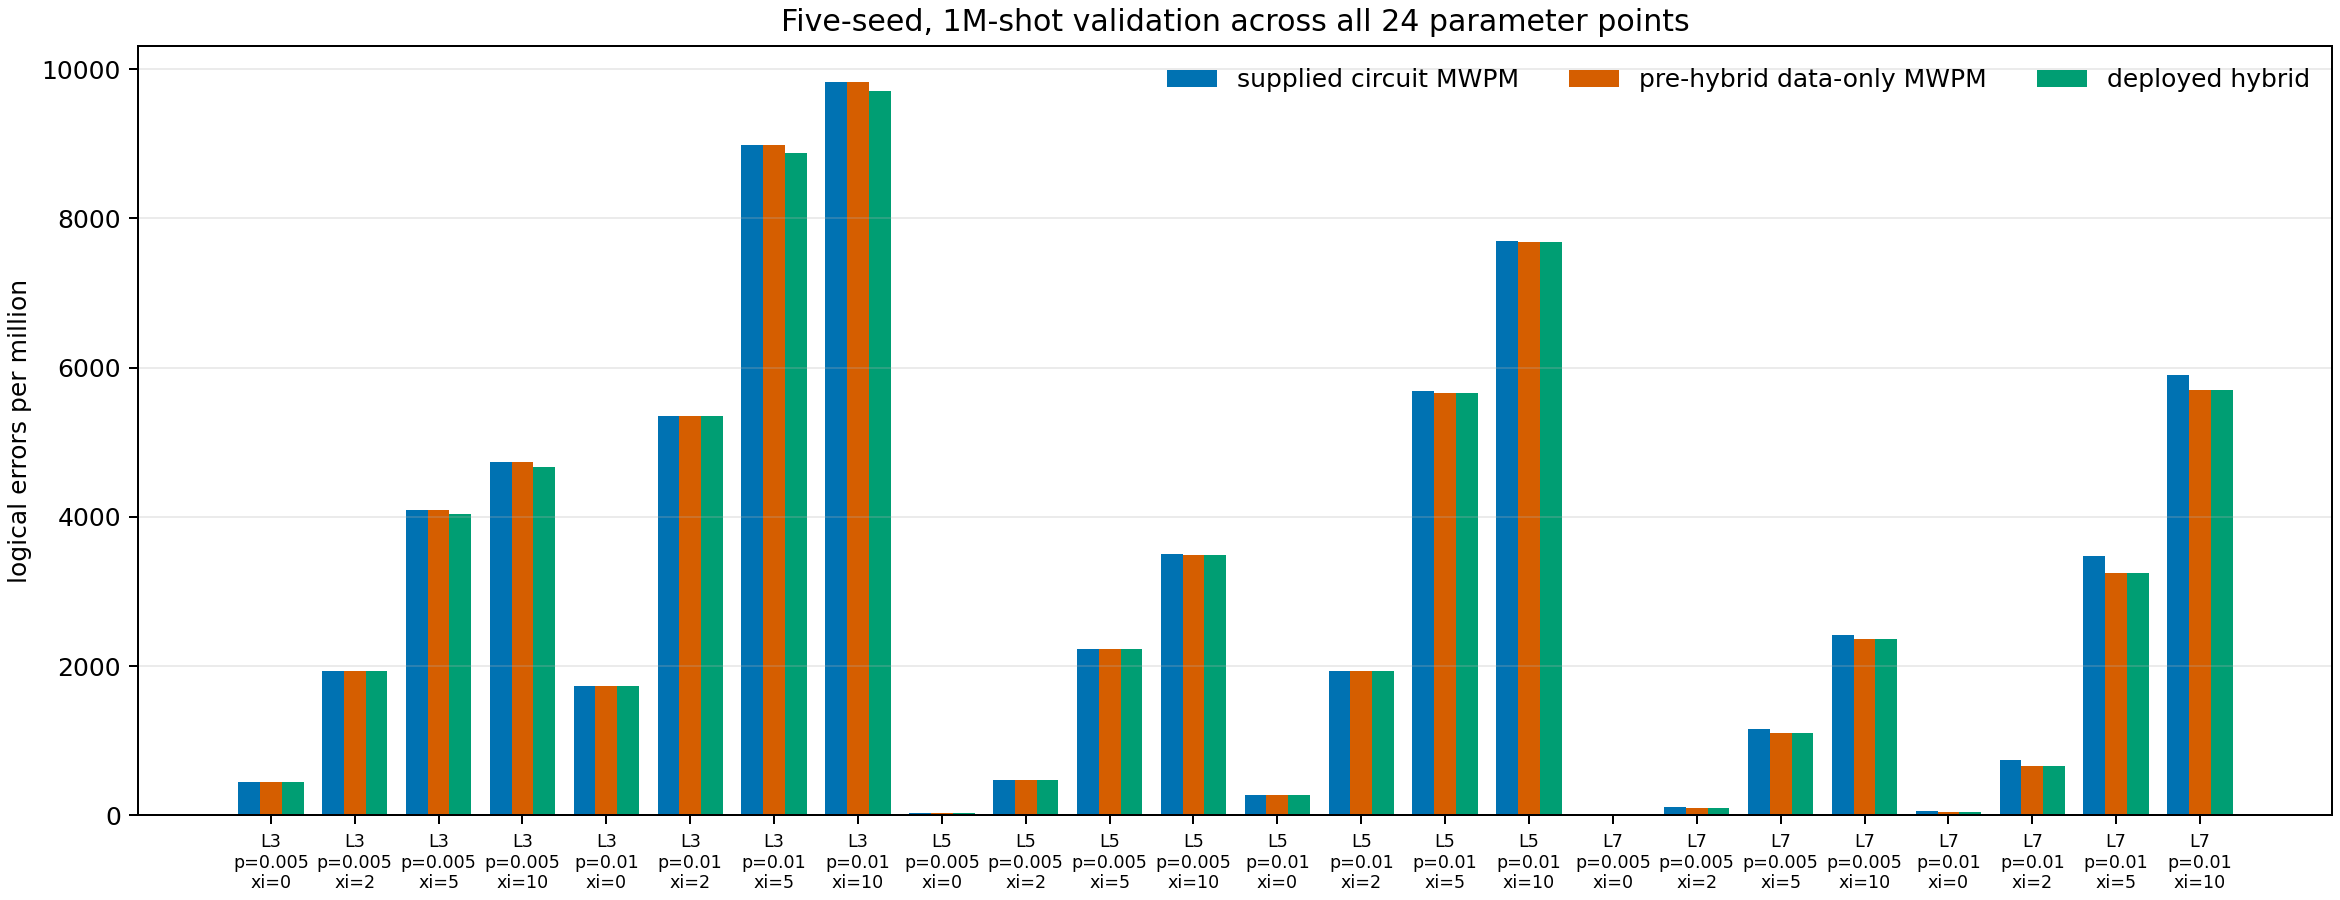
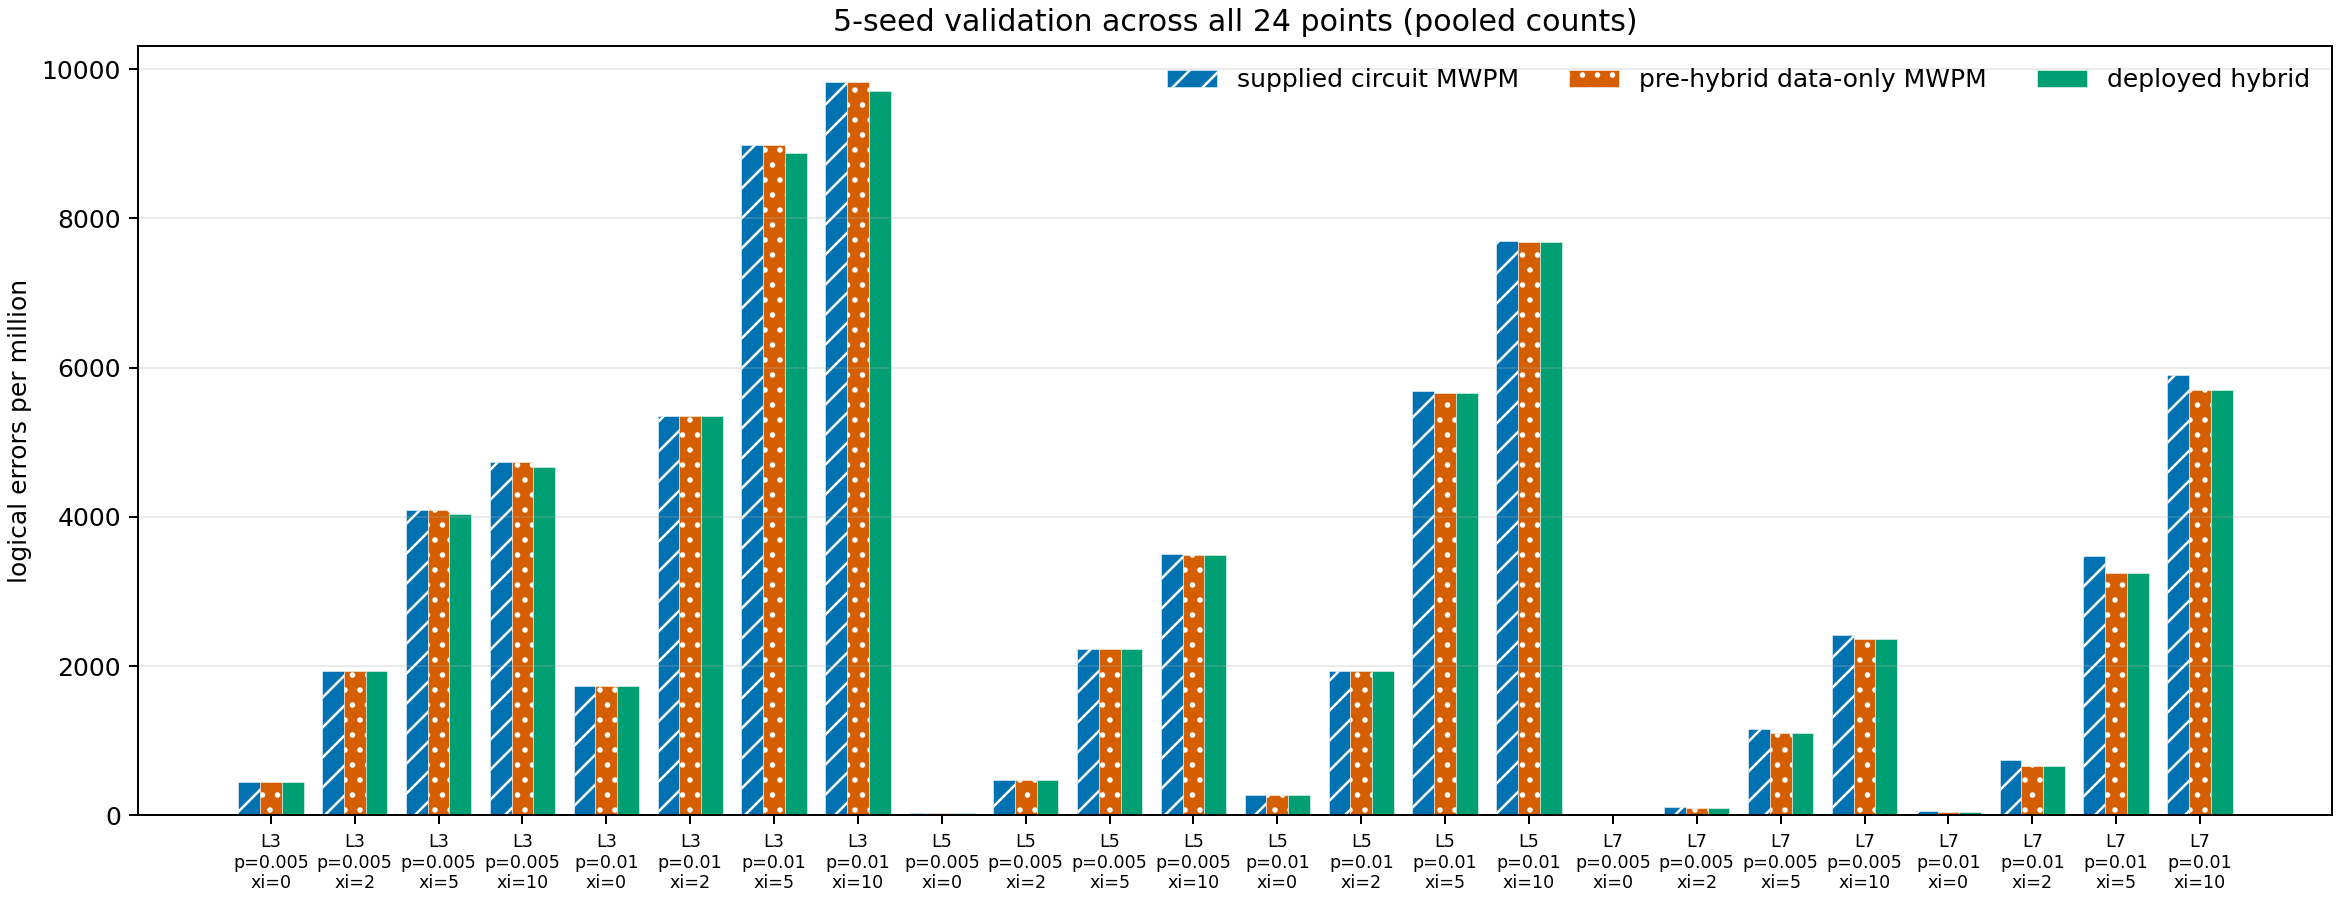
docs: add hybrid diagnostics and provenance

diff --git a/scripts/make_hybrid_plots.py b/scripts/make_hybrid_plots.py
@@ -3,6 +3,8 @@
 from __future__ import annotations
 
 import argparse
+import csv
+import hashlib
 import json
 from collections import defaultdict
 from pathlib import Path
@@ -18,10 +20,47 @@ LABELS = {
     "hybrid": "deployed hybrid",
 }
 COLORS = {"circuit_mwpm": "#0072B2", "pre_hybrid_data_only": "#D55E00", "hybrid": "#009E73"}
+HATCHES = dict(zip(VARIANTS, ("//", "..", "")))
+MARKERS = dict(zip(VARIANTS, ("s", "^", "o")))
 
 
 def load(path: Path) -> list[dict]:
-    return [json.loads(line) for line in path.read_text(encoding="utf-8").splitlines() if line.strip()]
+    rows = [json.loads(line) for line in path.read_text(encoding="utf-8").splitlines() if line.strip()]
+    seen = set()
+    for row in rows:
+        key = tuple(row[k] for k in ("seed", "L", "p", "xi"))
+        if key in seen or row["shots"] <= 0:
+            raise ValueError("duplicate stratum or nonpositive shots")
+        seen.add(key)
+        for variant in VARIANTS:
+            if row["decoders"][variant]["status"] != "ok":
+                raise ValueError("Figures require a passing receipt; failed runs must be reported separately")
+    expected = {(L, p, xi) for L in (3, 5, 7) for p in (0.005, 0.01) for xi in (0, 2, 5, 10)}
+    if not rows:
+        raise ValueError("empty receipt")
+    for seed in {r["seed"] for r in rows}:
+        if {k[1:] for k in seen if k[0] == seed} != expected:
+            raise ValueError("incomplete challenge grid")
+    return rows
+
+
+def paired_effect(rows: list[dict], reference: str) -> tuple[float, float]:
+    """Saved errors/M and approximate 95% CI half-width for fixed strata.
+
+    Shot difference is +1 for rescue, -1 for harm, 0 for agreement. Variances
+    are summed across independent seed/point strata; zero discordance does not
+    establish population equality. These CIs are descriptive, not simultaneous.
+    """
+    n = sum(r["shots"] for r in rows)
+    saved = 0
+    variance_sum = 0.0
+    for row in rows:
+        pair = row["paired"][reference]
+        a, b, m = pair["rescue"], pair["harm"], row["shots"]
+        saved += a - b
+        if m > 1:
+            variance_sum += (a + b - (a - b)**2 / m) * m / (m - 1)
+    return saved * 1e6 / n, 1.96 * np.sqrt(variance_sum) * 1e6 / n
 
 
 def aggregate(rows: list[dict], variant: str, keys: tuple[str, ...]) -> dict:
@@ -58,10 +97,10 @@ def main() -> None:
     width = 0.26
     for offset, variant in zip((-width, 0, width), VARIANTS):
         values = [by_point[variant][point]["errors_per_million"] for point in points]
-        ax.bar(x + offset, values, width, label=LABELS[variant], color=COLORS[variant])
+        ax.bar(x + offset, values, width, label=LABELS[variant], color=COLORS[variant], hatch=HATCHES[variant], edgecolor="white", linewidth=0.2)
     ax.set_xticks(x, labels, fontsize=7)
     ax.set_ylabel("logical errors per million")
-    ax.set_title("Five-seed, 1M-shot validation across all 24 parameter points")
+    ax.set_title(f"{len({r['seed'] for r in rows})}-seed validation across all 24 points (pooled counts)")
     ax.grid(axis="y", alpha=0.25)
     ax.legend(frameon=False, ncol=3)
     fig.savefig(args.outdir / "hybrid_errors_by_point.png", dpi=180)
@@ -88,10 +127,11 @@ def main() -> None:
     by_seed = aggregate(rows, "hybrid", ("seed",))
     fig, ax = plt.subplots(figsize=(8, 4.5), layout="constrained")
     seeds = sorted(by_seed)
-    for variant in VARIANTS:
+    for offset, variant in zip((-0.14, 0, 0.14), VARIANTS):
         seed_values = aggregate(rows, variant, ("seed",))
-        ax.plot(seeds, [seed_values[seed]["errors_per_million"] for seed in seeds], marker="o", label=LABELS[variant], color=COLORS[variant])
-    ax.set_xlabel("validation seed")
+        ax.plot(np.arange(len(seeds)) + offset, [seed_values[seed]["errors_per_million"] for seed in seeds], linestyle="none", marker=MARKERS[variant], label=LABELS[variant], color=COLORS[variant])
+    ax.set_xticks(np.arange(len(seeds)), [str(seed[0]) for seed in seeds])
+    ax.set_xlabel("validation seed (categorical; not a numerical trend)")
     ax.set_ylabel("pooled logical errors per million")
     ax.set_title("Multi-seed aggregate variability")
     ax.grid(alpha=0.25)
@@ -104,7 +144,8 @@ def main() -> None:
     x = np.arange(3)
     for offset, variant in zip((-width, 0, width), VARIANTS):
         values = [runtime[variant][(L,)]["max_elapsed_s"] for L in (3, 5, 7)]
-        ax.bar(x + offset, values, width, label=LABELS[variant], color=COLORS[variant])
+        bars = ax.bar(x + offset, values, width, label=LABELS[variant], color=COLORS[variant], hatch=HATCHES[variant], edgecolor="white", linewidth=0.2)
+        ax.bar_label(bars, fmt="%.3f", padding=3, fontsize=7)
     ax.axhline(2.5, color="#C00000", linestyle="--", label="2.5 s limit")
     ax.set_xticks(x, ["L=3", "L=5", "L=7"])
     ax.set_ylabel("maximum build + decode seconds")
@@ -113,6 +154,42 @@ def main() -> None:
     ax.legend(frameon=False, fontsize=8)
     fig.savefig(args.outdir / "hybrid_runtime_by_distance.png", dpi=180)
     plt.close(fig)
+
+    fig, ax = plt.subplots(figsize=(8, 4.5), layout="constrained")
+    changed = [(3, p, xi) for p in (0.005, 0.01) for xi in (5.0, 10.0)]
+    means, margins = [], []
+    for point in changed:
+        subset = [r for r in rows if (r["L"], r["p"], r["xi"]) == point]
+        mean, margin = paired_effect(subset, "pre_hybrid_data_only")
+        means.append(mean)
+        margins.append(margin)
+    ax.errorbar(range(4), means, yerr=margins, fmt="o", capsize=5, color=COLORS["hybrid"])
+    ax.axhline(0, color="black", linestyle="--", linewidth=1)
+    ax.set_xticks(range(4), [f"p={p:g}, xi={xi:g}" for _, p, xi in changed])
+    ax.set_ylabel("errors/M saved vs pre-hybrid MWPM")
+    ax.set_title("L=3 paired gain: approximate pointwise 95% intervals")
+    ax.grid(axis="y", alpha=.25)
+    fig.savefig(args.outdir / "hybrid_paired_gain.png", dpi=180)
+    plt.close(fig)
+
+    # Tabular data alternative and source binding for every retained figure.
+    with (args.outdir / "hybrid_figure_data.csv").open("w", newline="\n") as stream:
+        writer = csv.writer(stream, lineterminator="\n")
+        writer.writerow(["L", "p", "xi", "decoder", "errors", "shots", "errors_per_million", "max_elapsed_s"])
+        for point in points:
+            for variant in VARIANTS:
+                r = by_point[variant][point]
+                writer.writerow([*point, variant, r["errors"], r["shots"], r["errors_per_million"], r["max_elapsed_s"]])
+    metadata = {
+        "input_name": args.input.name,
+        "input_sha256": hashlib.sha256(args.input.read_bytes()).hexdigest(),
+        "rows": len(rows), "shots_per_decoder": sum(r["shots"] for r in rows),
+        "aggregation": "sum(errors)/sum(shots); no rows excluded; unrounded rates",
+        "uncertainty": "paired fixed-stratum normal 95% intervals, not simultaneous; see paired_effect",
+        "runtime": "maximum construction + decode, sampling excluded, recorded host only",
+        "seed_axis": "categorical, no interpolation",
+    }
+    (args.outdir / "hybrid_figure_provenance.json").write_text(json.dumps(metadata, indent=2) + "\n")
 
 
 if __name__ == "__main__":

diff --git a/docs/benchmark_contract.md b/docs/benchmark_contract.md
@@ -65,8 +65,11 @@ and network access during decoding and cap `solve.py` at 200 KB.
 
 ## Final candidate
 
-`solve.py` constructs a matching graph from the same data-only iid X-error
+`solve.py` uses a frozen 256-entry offline MAP table for the eight exact official
+L=3 `(p, xi)` combinations. The table was generated from the Track-A
+Gaussian-copula model using approximate QMC rectangle probabilities; it is not
+an exact orthant-probability certificate. For L=5/L=7, and for off-grid points,
+the decoder constructs a matching graph from the same data-only iid X-error
 process used by the benchmark when `xi=0`. It precomputes the graph during
-`build_decoder` and performs one batch PyMatching decode. It does not read `xi`
-because the retained candidate is a calibrated iid decoder, not a full
-correlation-aware model.
+`build_decoder` and performs one batch PyMatching decode. There is no runtime
+file dependency or online training.

diff --git a/REPORT.md b/REPORT.md
@@ -62,6 +62,7 @@ The supplied graph, data-only graph, uniform graph, Track-A L=3 table, and Track
 - Machine-readable results: `experiments/*.jsonl` and summaries
 - Hybrid validation receipt: `experiments/hybrid/official_1m_5seeds_serial.summary.json`
 - Diagnostic figures: `plots/hybrid_errors_by_point.png`, `plots/hybrid_improvement_heatmap.png`, `plots/hybrid_runtime_by_distance.png`, `plots/hybrid_seed_variability.png`
+- Paired uncertainty figure/data: `plots/hybrid_paired_gain.png`, `plots/hybrid_figure_data.csv`, `plots/hybrid_figure_provenance.json`
 - Research-only new architecture: `experiments/tracks/D/`
 - Decision trace: `EXPERIMENT_LOG.md`
 - Environment specification: `pyproject.toml` and `uv.lock`; local virtual environments are ignored by git

diff --git a/README.md b/README.md
@@ -29,6 +29,11 @@ The committed figures are generated from the paired five-seed receipt:
 
 ![Validation-seed variability](plots/hybrid_seed_variability.png)
 
+The paired L=3 effect sizes with approximate fixed-stratum 95% intervals are
+shown in [`plots/hybrid_paired_gain.png`](plots/hybrid_paired_gain.png), and the
+underlying tabular values are in `plots/hybrid_figure_data.csv` with provenance
+in `plots/hybrid_figure_provenance.json`.
+
 The direct syndrome-posterior architecture in `experiments/tracks/D/` remains
 research-only. It showed a stronger signal for L=5 than L=7, but was not merged
 because the L=7 evidence is support-limited and the approved deployment is the
